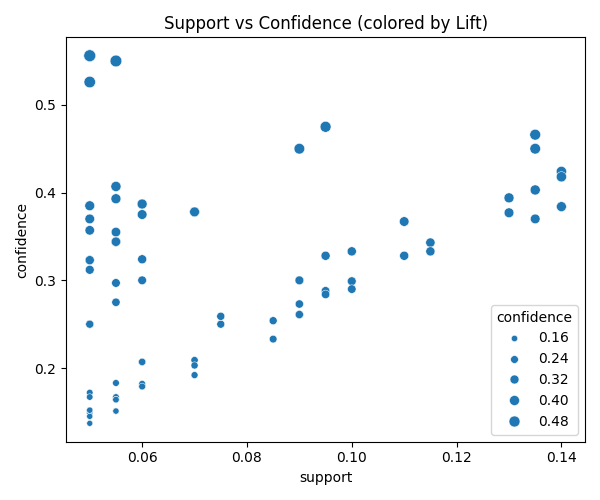
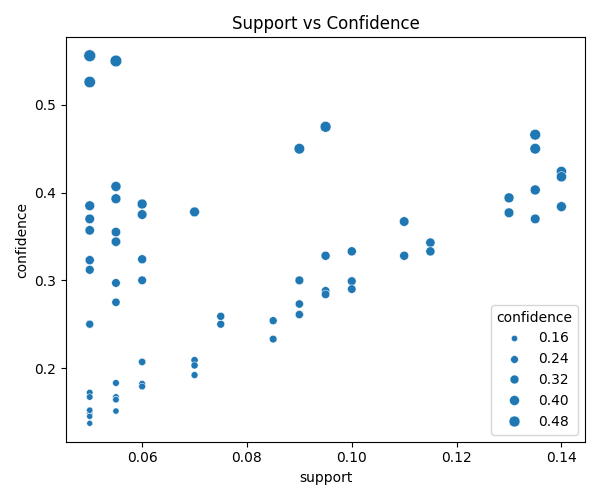
fix: update confidence threshold in summary and adjust plot title

Changed region(s): [[0.27, 0.03, 0.81, 0.06]]

diff --git a/Apriori/evaluate_association_analysis.py b/Apriori/evaluate_association_analysis.py
@@ -61,7 +61,7 @@ sns.scatterplot(
     palette="coolwarm", 
     size="confidence"
 )
-plt.title("Support vs Confidence (colored by Lift)")
+plt.title("Support vs Confidence")
 plt.tight_layout()
 plt.savefig("support_vs_confidence.png")
 plt.close()
@@ -75,7 +75,7 @@ with open("association_summary.txt", "w") as f:
 
 
     f.write(f"Total Rules: {len(rules)}\n")
-    f.write(f"Strong Rules (confidence >= 0.6): {len(strong_rules)}\n")
+    f.write(f"Strong Rules (confidence >= 0.5): {len(strong_rules)}\n")
     if 'lift' in rules.columns:
         f.write(f"Strong Rules with lift > 1: {len(strong_rules)}\n\n")
     
